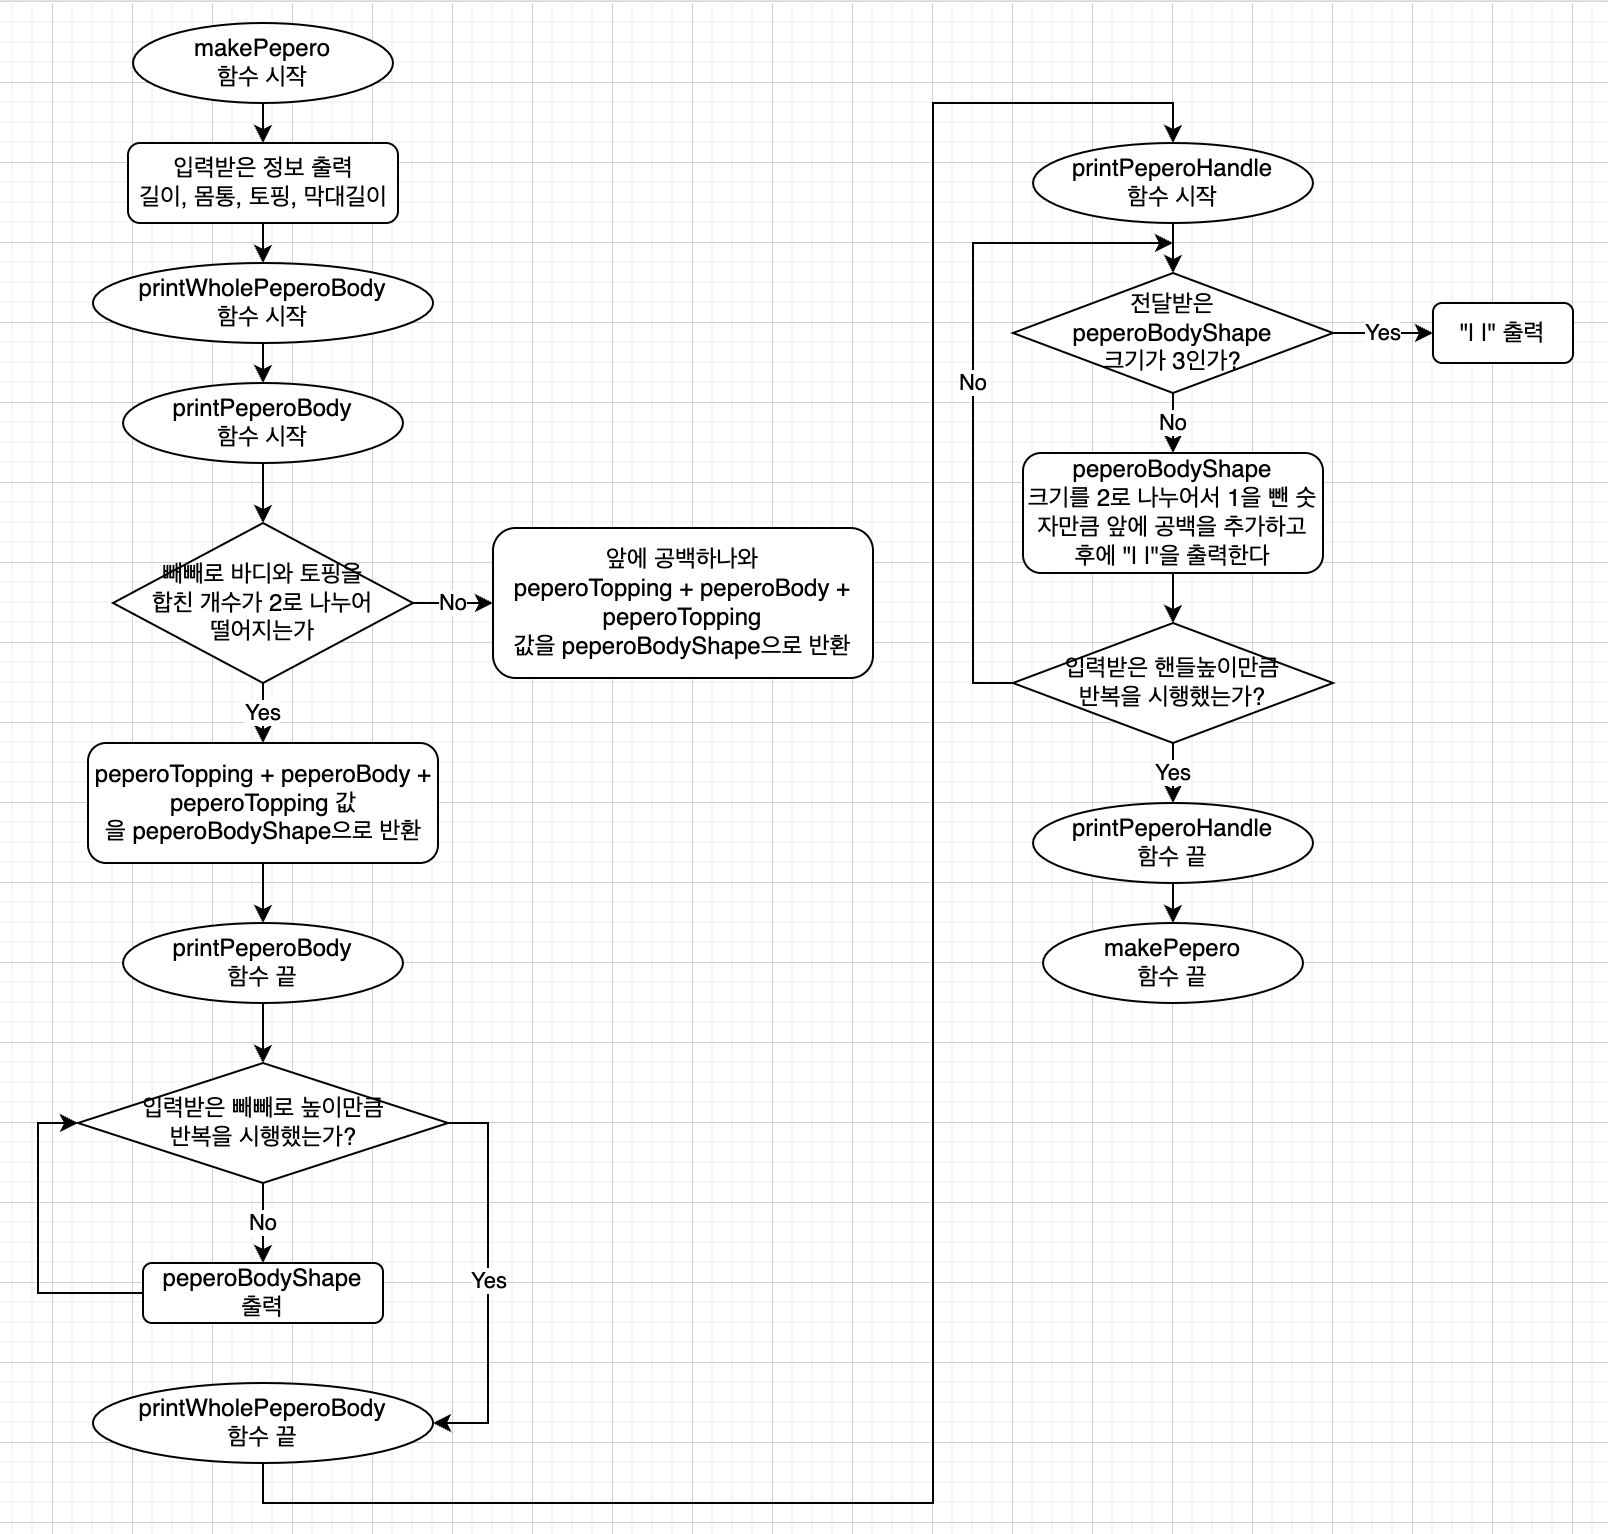
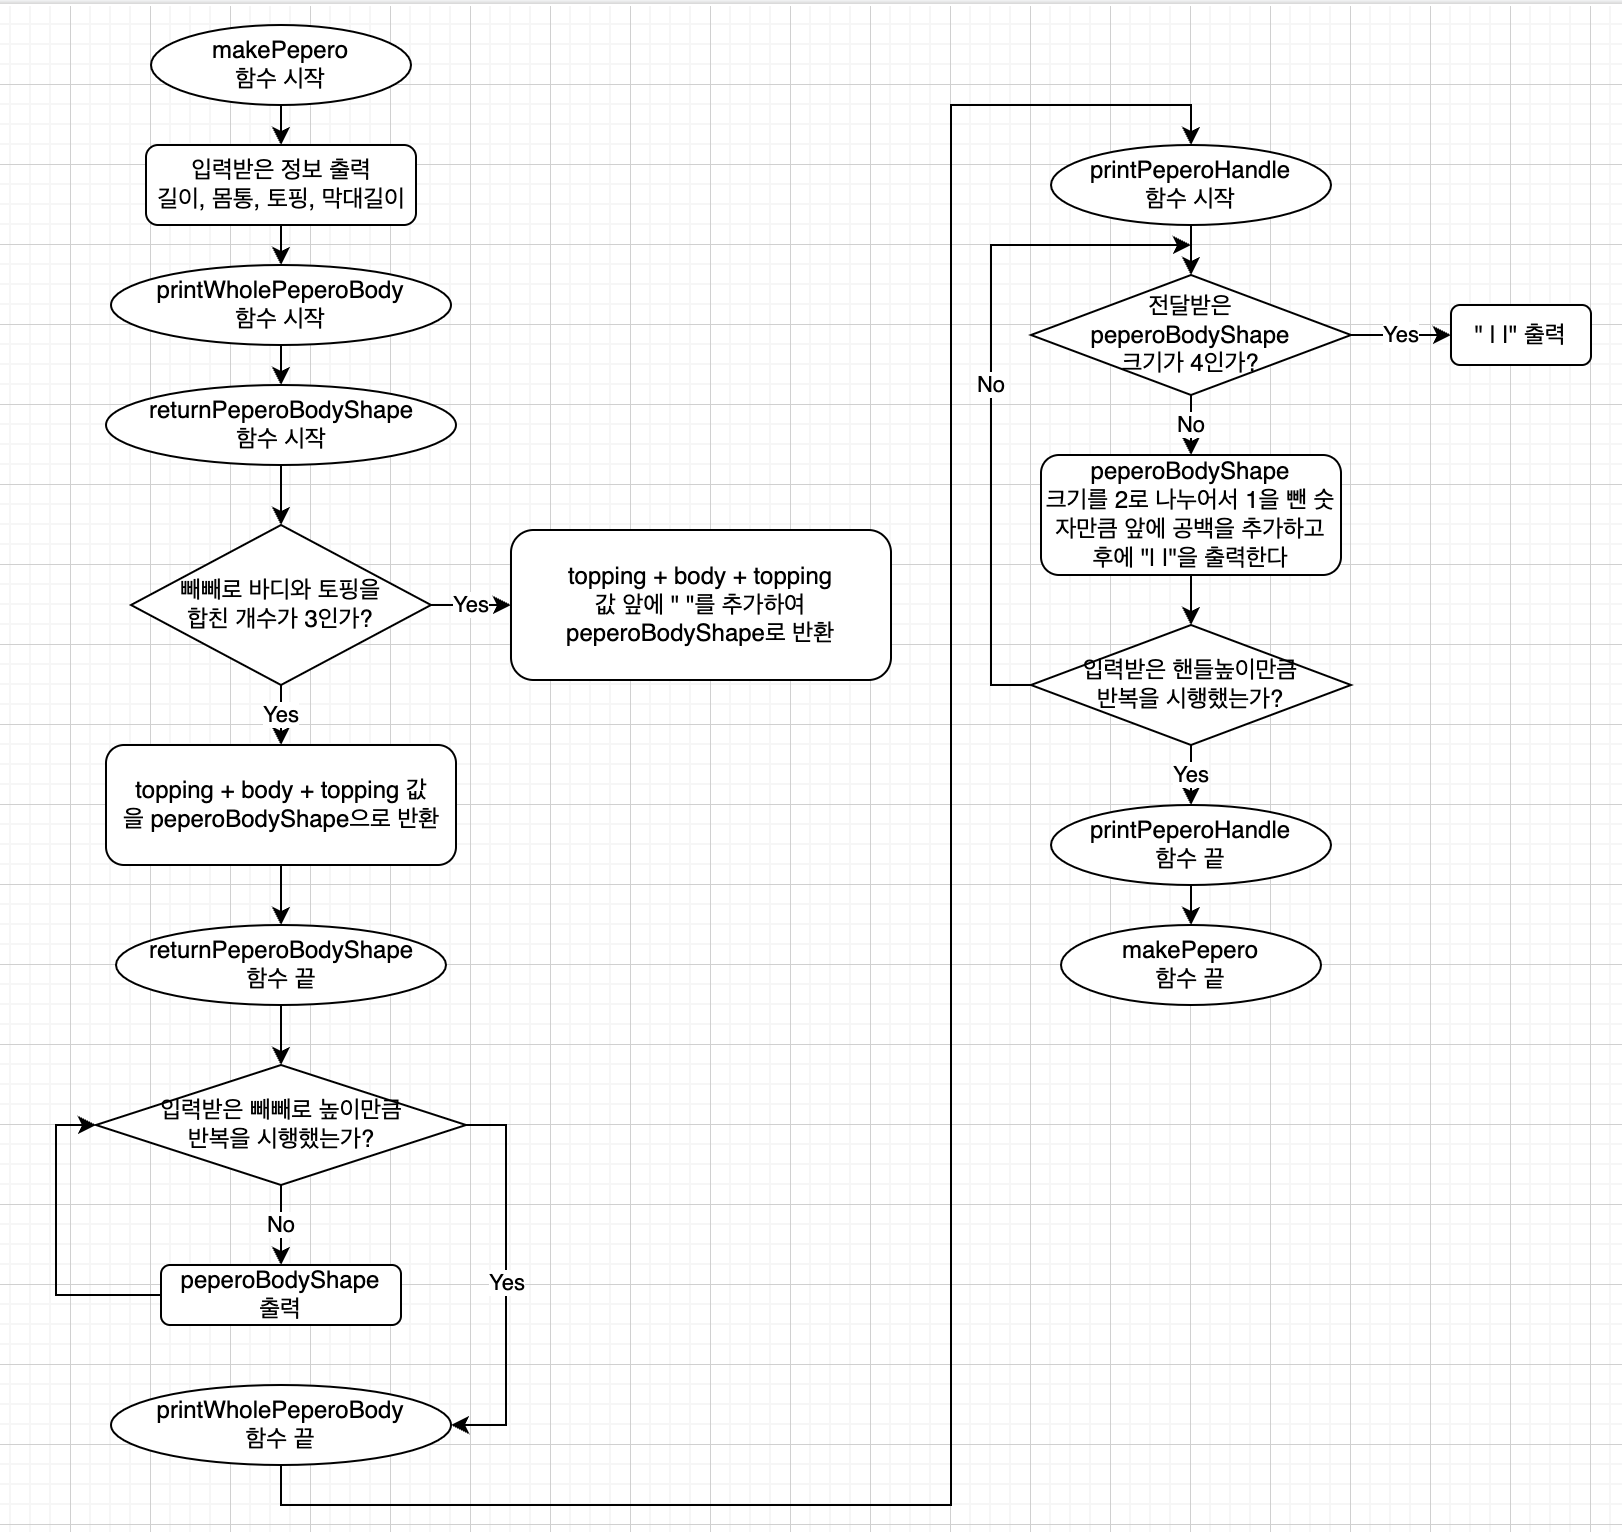
fix: 요구사항 관계없는 내용 삭제하여 재등록

diff --git a/CodeStarterCamp_Week1/main.swift b/CodeStarterCamp_Week1/main.swift
@@ -1,66 +1,19 @@
-import Foundation
-
-func printPeperoHandle(handleLength: Int, peperoBodyShape: String) {
-    for _ in 1...handleLength {
-        if (peperoBodyShape.count == 3) {
-            print("| |")
-        }
-        else {
-            for _ in 2...(peperoBodyShape.count/2) {
-                print(" ", terminator: "")
-            }
-            print("| |")
-        }
-    }
-}
-
-func printPeperoBody(peperoBody: String, peperoTopping: String) -> String {
-    if ((peperoBody + peperoTopping).count % 2 == 0) {
-        return (peperoTopping + peperoBody + peperoTopping)
-    } else {
-        return (" " + peperoTopping + peperoBody + peperoTopping)
-    }
-}
-
-func printWholePeperoBody(peperoHeight: Int, peperoBodyShape: String) {
-    for _ in 1...peperoHeight {
-        print(peperoBodyShape)
-    }
-}
-
-func makePepero(peperoHeight: Int, peperoBody: String, peperoTopping: String, handleLength: Int) {
-    print("<정보>")
-    print("길이: \(peperoHeight)")
-    print("몸통: \(peperoBody)")
-    print("토핑: \(peperoTopping)")
-    print("막대길이: \(handleLength)")
-    print()
-    printWholePeperoBody(peperoHeight: peperoHeight, peperoBodyShape: printPeperoBody(peperoBody: peperoBody, peperoTopping: peperoTopping))
-    printPeperoHandle(handleLength: handleLength, peperoBodyShape: printPeperoBody(peperoBody: peperoBody, peperoTopping: peperoTopping))
-    print()
-}
+//
+//  main.swift
+//  CodeStarterCamp_Week1
+//
+//  Created by yagom.
+//  Copyright © yagom academy. All rights reserved.
+//
 
 //MARK: 실행예시 1
-makePepero(peperoHeight: 10, peperoBody: "***", peperoTopping: "", handleLength: 4)
+makePepero(height: 10, body: "***", topping: "", handleLength: 4)
 //MARK: 실행예시 2
-makePepero(peperoHeight: 12, peperoBody: "***", peperoTopping: "&", handleLength: 4)
+makePepero(height: 12, body: "***", topping: "&", handleLength: 4)
 //MARK: 실행예시 3
-makePepero(peperoHeight: 12, peperoBody: "***", peperoTopping: "#", handleLength: 6)
+makePepero(height: 12, body: "***", topping: "#", handleLength: 6)
 //MARK: 실행예시 4
-makePepero(peperoHeight: 6, peperoBody: "|0|", peperoTopping: "", handleLength: 4)
+makePepero(height: 6, body: "|0|", topping: "", handleLength: 4)
 
 //MARK: 자신만의 아이스크림을 만들어보자
-makePepero(peperoHeight: 10, peperoBody: "**#**", peperoTopping: "##$$", handleLength: 4)
-
-//MARK: user input practice
-print("<정보>")
-print("아이스크림 길이를 입력하세요: ", terminator: "")
-let peperoHeight = Int(readLine()!)!
-print("아이스크림 몸통를 입력하세요: ", terminator: "")
-let peperoBody = readLine()!
-print("아이스크림 토핑를 입력하세요: ", terminator: "")
-let peperoTopping = readLine()!
-print("아이스크림 막대길이를 입력하세요: ", terminator: "")
-let handleLength = Int(readLine()!)!
-
-makePepero(peperoHeight: peperoHeight, peperoBody: peperoBody, peperoTopping: peperoTopping, handleLength: handleLength)
+makePepero(height: 10, body: "***", topping: "$#$", handleLength: 4)

diff --git a/CodeStarterCamp_Week1/step3.swift b/CodeStarterCamp_Week1/step3.swift
@@ -1,0 +1,45 @@
+//
+//  step3.swift
+//  CodeStarterCamp_Week1
+//
+//  Created by smfc on 26/6/2022.
+//
+
+import Foundation
+
+func printPeperoHandle(length: Int, peperoBodyShape: String) {
+    for _ in 1...length {
+        if (peperoBodyShape.count == 4) {
+            print(" | |")
+        }
+        else {
+            for _ in 2...(peperoBodyShape.count/2) {
+                print(" ", terminator: "")
+            }
+            print("| |")
+        }
+    }
+}
+
+func returnPeperoBodyShape(body: String, topping: String) -> String {
+    if ((topping + body + topping).count == 3) {
+        return (" " + topping + body + topping)
+    }
+    else {
+        return (topping + body + topping)
+    }
+}
+
+func printWholePeperoBody(height: Int, bodyShape: String) {
+    for _ in 1...height {
+        print(bodyShape)
+    }
+}
+
+func makePepero(height: Int, body: String, topping: String, handleLength: Int) {
+    print("<정보>\n길이: \(height)\n몸통: \(body)\n토핑: \(topping)\n막대길이: \(handleLength)\n")
+    printWholePeperoBody(height: height, bodyShape: returnPeperoBodyShape(body: body, topping: topping))
+    printPeperoHandle(length: handleLength, peperoBodyShape: returnPeperoBodyShape(body: body,topping: topping))
+    print()
+}
+
